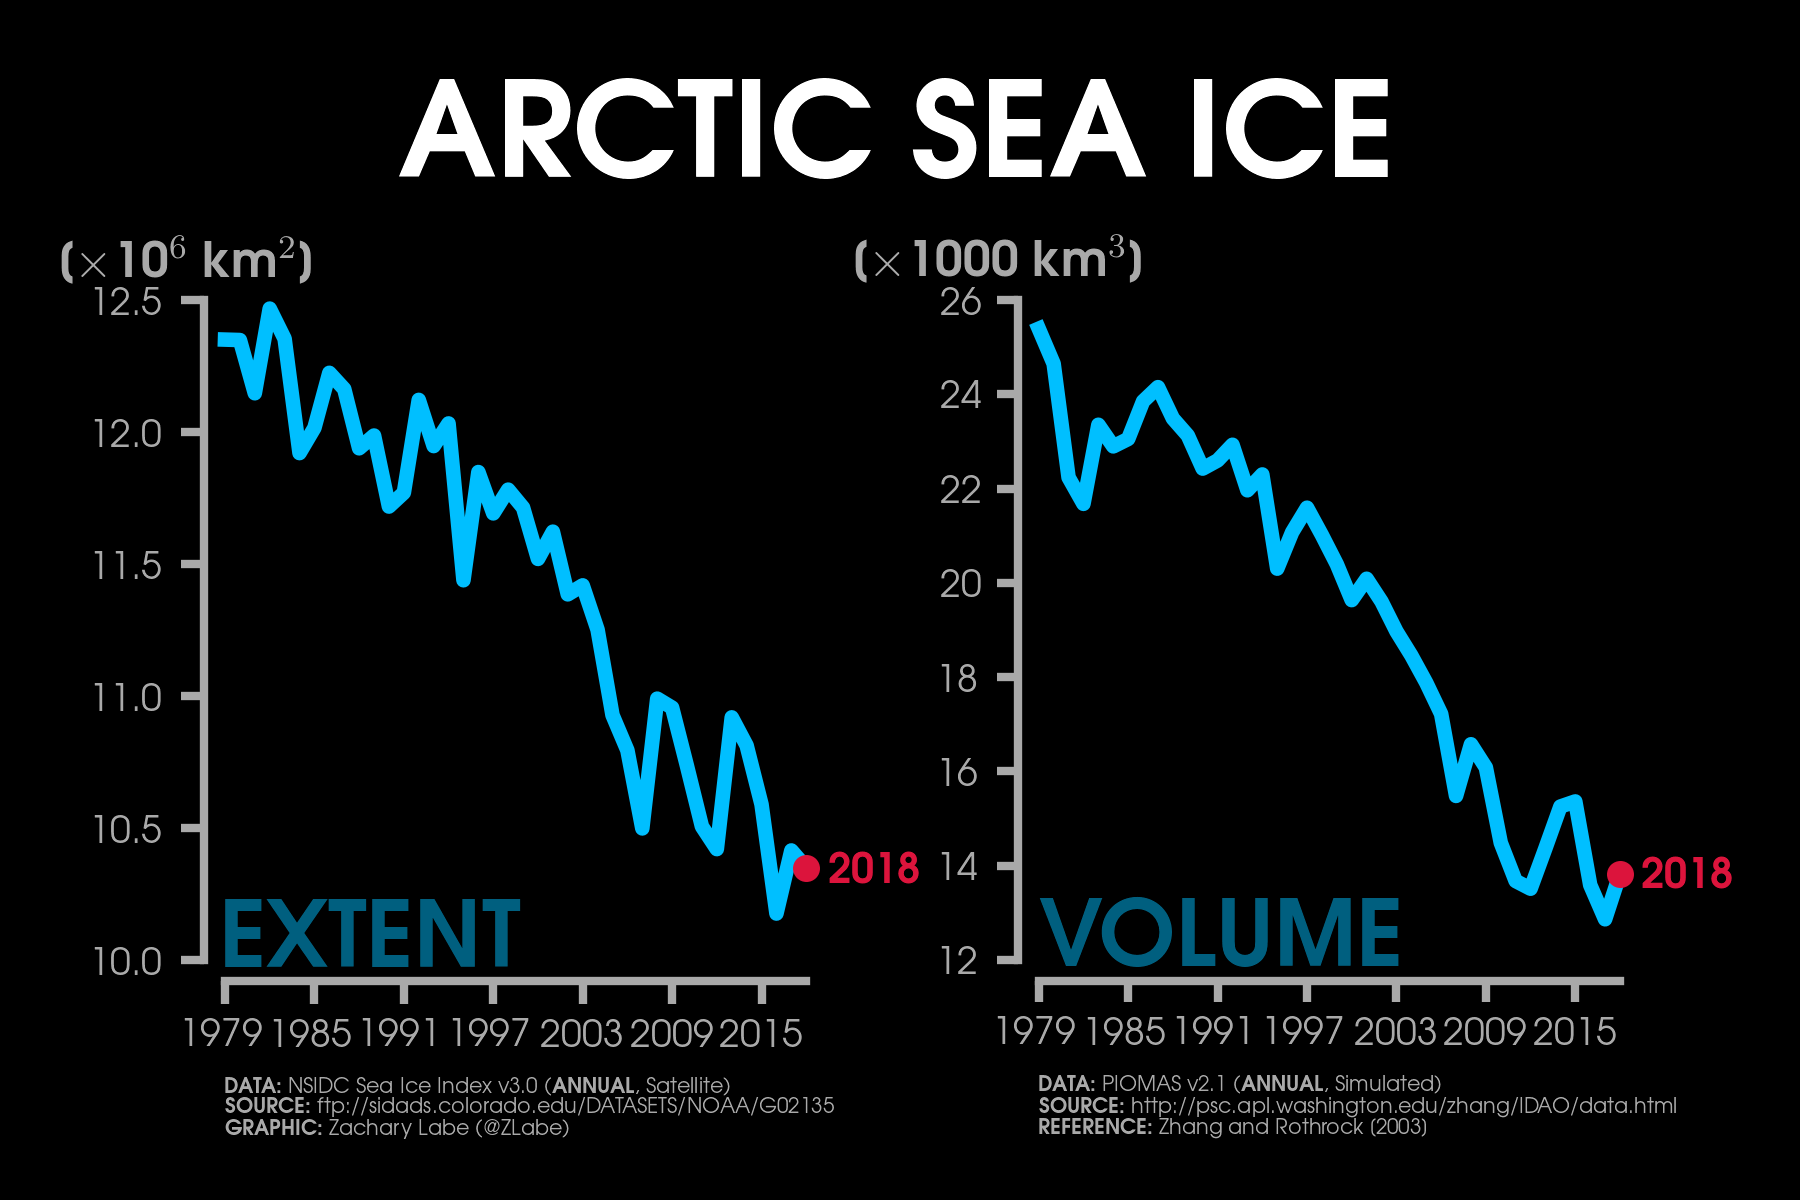
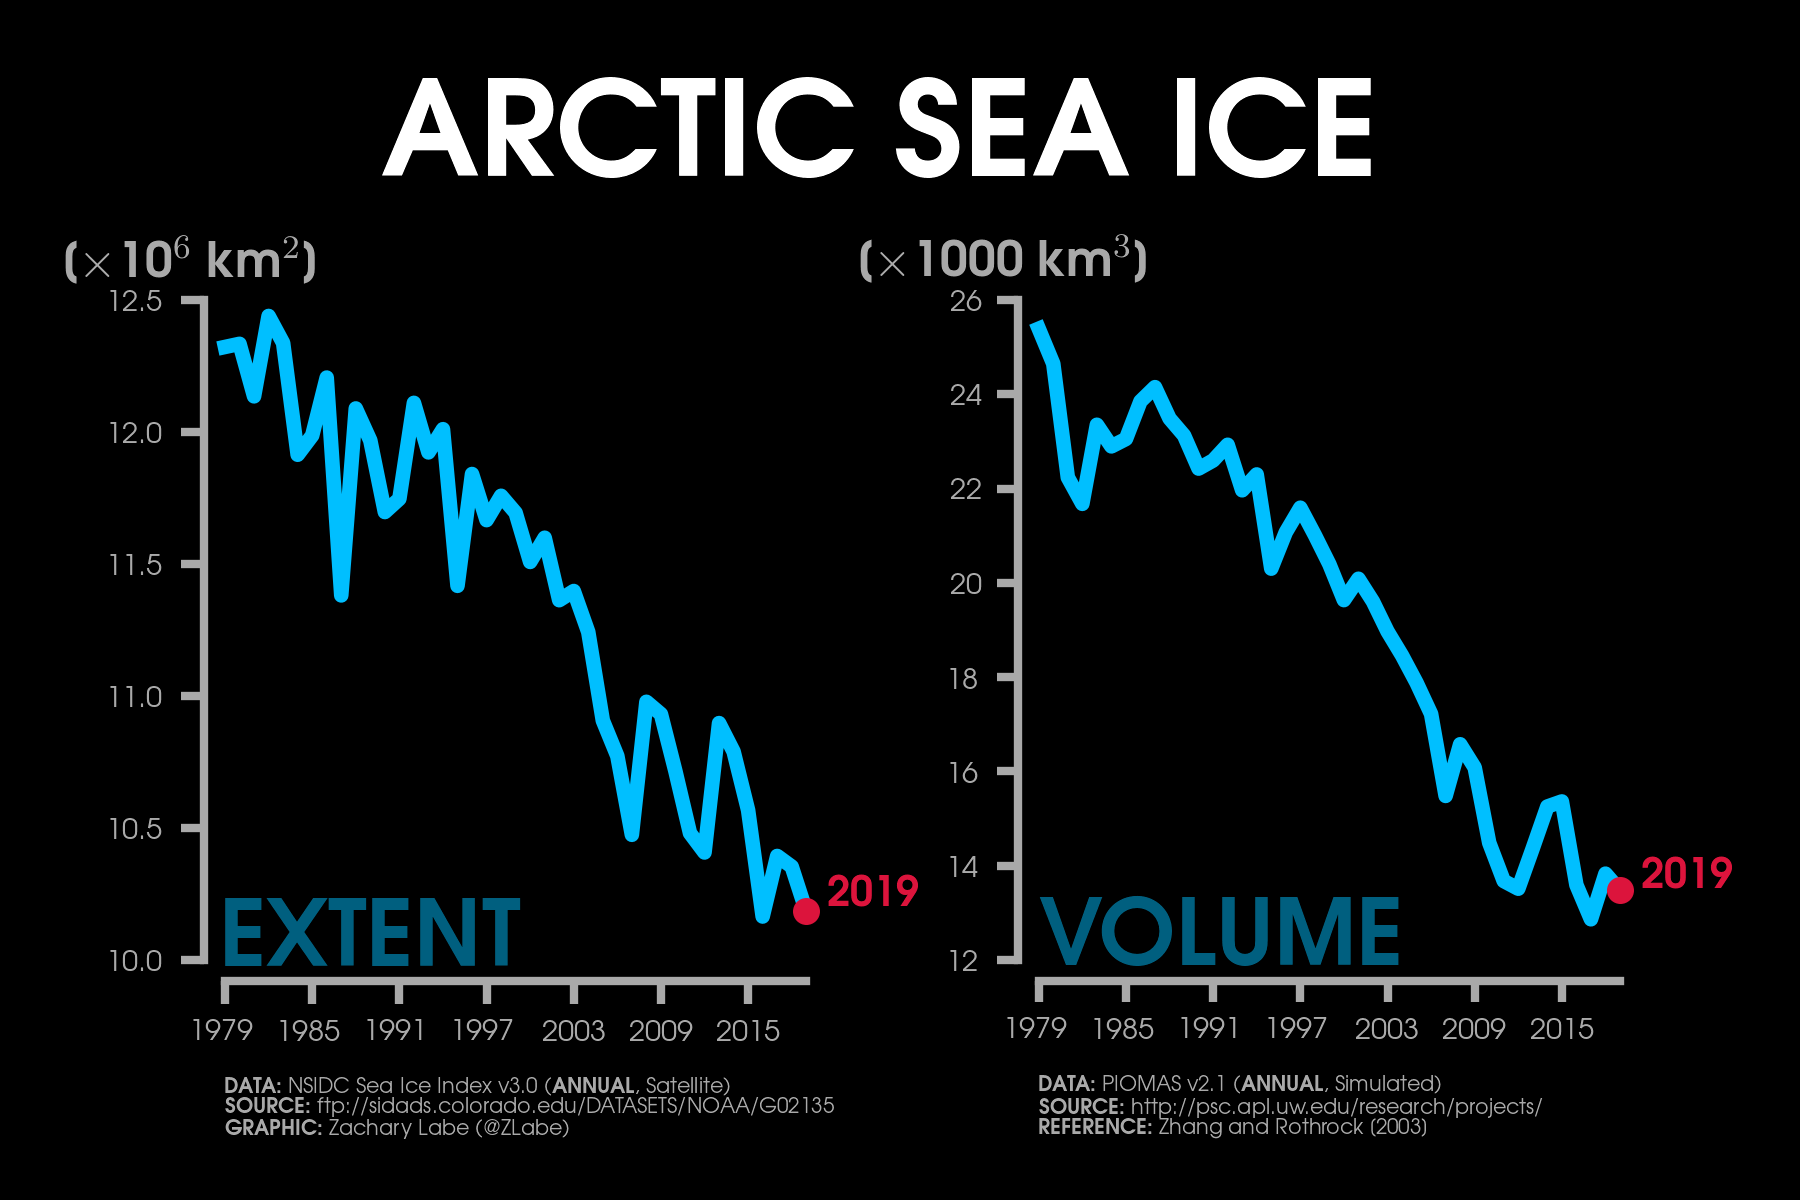
2019 annual sea ice

diff --git a/Scripts/SeaIce/plot_VolumeExtent_MovingLines.py b/Scripts/SeaIce/plot_VolumeExtent_MovingLines.py
@@ -26,11 +26,11 @@ directorydata = '/home/zlabe/Documents/Projects/IceVarFigs/Data/'
 directoryfigure = '/home/zlabe/Documents/Projects/IceVarFigs/Figures/'
 
 ### Load data files for Extent (e) and Antarctica (v)
-filee = 'NSIDC_AnnualSIE_2018.txt'
-filev = 'PIOMAS_AnnualSIV_2018.txt'
+filee = 'NSIDC_AnnualSIE_2019.txt'
+filev = 'PIOMAS_AnnualSIV_2019.txt'
 
 ### Years through 2017
-years = np.arange(1979,2018+1,1)
+years = np.arange(1979,2019+1,1)
 
 ### Read file
 eq = np.genfromtxt(directorydata + filee,unpack=True)
@@ -89,13 +89,13 @@ ant, = plt.plot(years,eq,linestyle='-',linewidth=3.5,
 plt.scatter(years[-1],eq[-1],s=30,color='crimson',zorder=9,clip_on=False)
 
 xlabels = map(str,np.arange(1979,2019,6))
-plt.xticks(np.arange(1979,2019,6),xlabels,fontsize=9)
+plt.xticks(np.arange(1979,2019,6),xlabels,fontsize=7)
 ylabels = map(str,np.arange(10,13,0.5))
-plt.yticks(np.arange(10,13,0.5),ylabels,fontsize=9)
+plt.yticks(np.arange(10,13,0.5),ylabels,fontsize=7)
 plt.ylim([10,12.5])
-plt.xlim([1979,2018])
+plt.xlim([1979,2019])
 
-plt.text(2019.5,10.29,r'\textbf{2018}',fontsize=10,color='crimson',ha='left')
+plt.text(2020.5,10.2,r'\textbf{2019}',fontsize=10,color='crimson',ha='left')
 
 plt.text(1979,9.5,r'\textbf{DATA:} NSIDC Sea Ice Index v3.0 (\textbf{ANNUAL}, Satellite)',
          fontsize=5,rotation='horizontal',ha='left',color='darkgrey',alpha=1)
@@ -148,20 +148,20 @@ gre, = plt.plot(years,vq,linestyle='-',linewidth=3.5,
 plt.scatter(years[-1],vq[-1],s=30,color='crimson',zorder=9,clip_on=False)
 
 xlabels = map(str,np.arange(1979,2019,6))
-plt.xticks(np.arange(1979,2019,6),xlabels,fontsize=9)
+plt.xticks(np.arange(1979,2019,6),xlabels,fontsize=7)
 ylabels = map(str,np.arange(12,27,2))
-plt.yticks(np.arange(12,27,2),ylabels,fontsize=9)
+plt.yticks(np.arange(12,27,2),ylabels,fontsize=7)
 plt.ylim([12,26])
-plt.xlim([1979,2018])
+plt.xlim([1979,2019])
 
 plt.text(1979,9.25,r'\textbf{DATA:} PIOMAS v2.1 (\textbf{ANNUAL}, Simulated)',
          fontsize=5,rotation='horizontal',ha='left',color='darkgrey',alpha=1)
-plt.text(1979,8.75,r'\textbf{SOURCE:} http://psc.apl.washington.edu/zhang/IDAO/data.html',
+plt.text(1979,8.75,r'\textbf{SOURCE:} http://psc.apl.uw.edu/research/projects/',
          fontsize=5,rotation='horizontal',ha='left',color='darkgrey',alpha=1)
 plt.text(1979,8.29,r'\textbf{REFERENCE:} Zhang and Rothrock [2003]',
          fontsize=5,rotation='horizontal',ha='left',color='darkgrey',alpha=1)
 
-plt.text(2019.5,13.5,r'\textbf{2018}',fontsize=10,color='crimson',ha='left')
+plt.text(2020.5,13.5,r'\textbf{2019}',fontsize=10,color='crimson',ha='left')
 plt.text(1966.7,26.8,r'\textbf{[\textbf{$\times$1000 km$^{3}$}]}',color='darkgrey',
                            fontsize=12,va='center',alpha=1) 
 
